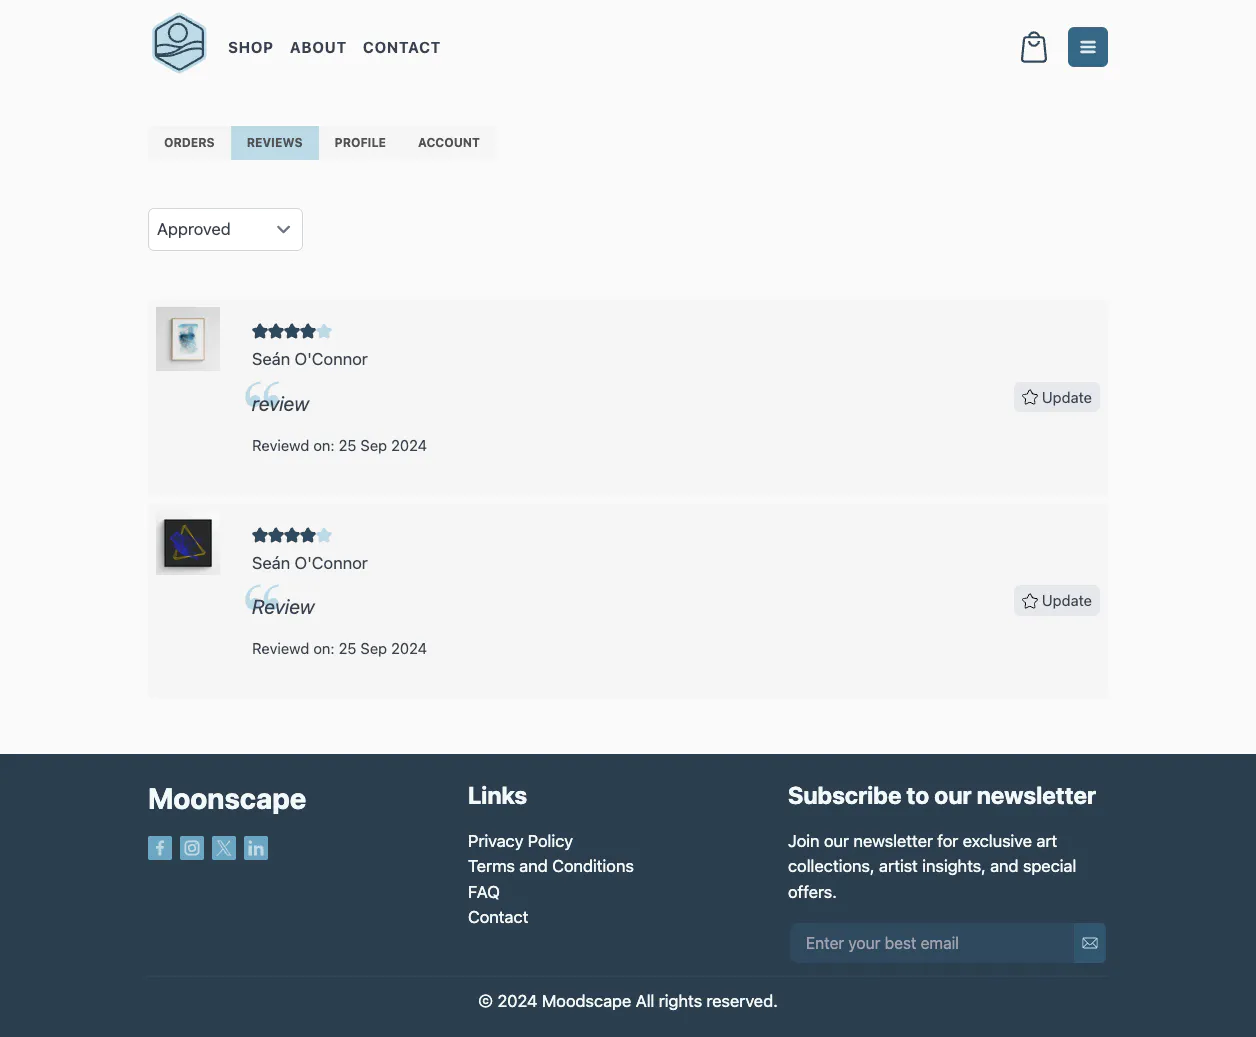
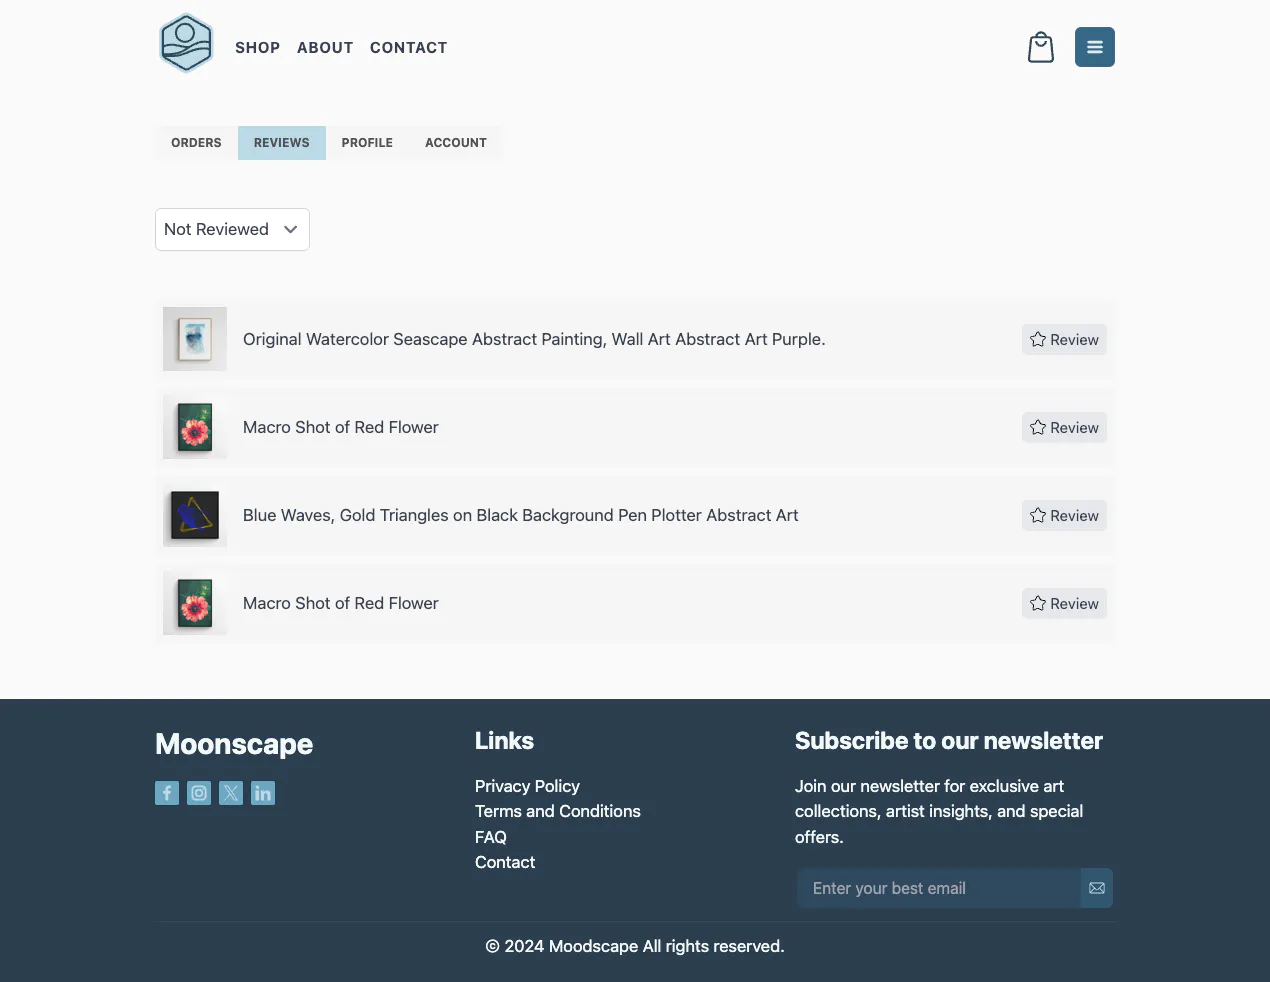
docs: document admin front end pages

diff --git a/README.md b/README.md
@@ -605,9 +605,113 @@ The account page provides a straightforward interface where users can update the
 
 ### Admin Pages
 
-#### Profile Management for Talent and Employers
+<details><summary>Admin Orders</summary>
 
-#### Account Management
+The admin orders page provides an overview of all transactions. It displays a table listing each order by number, the date it was placed, the customer's email, the current status of the order, and the total amount.
+
+![Admin Orders Page](./docs/features-page-admin-orders.webp)
+
+</details>
+
+<details><summary>Admin Order Single Page</summary>
+
+The single order page includes sections for order details, customer information, and shipment address. Admin have the ability to add, remove, or adjust the quantity of items within an order directly from this page. Additionally, admin can update the order status to canceled, completed, or processing.
+
+![Admin Order Single Page](./docs/features-page-admin-order.webp)
+
+</details>
+
+<details><summary>Admin Customers Page</summary>
+
+The customers page displays a list of all shop customers, including their names, email and created date.
+
+![Admin Customers Page](./docs/features-page-admin-customers.webp)
+
+</details>
+
+<details><summary>Admin Customer Single Page</summary>
+
+The single customer page provides options to update customer details or delete the customer profile. Deleting a customer will not remove their associated orders.
+
+![Admin Customer Single Page](./docs/features-page-admin-customer.webp)
+
+</details>
+
+<details><summary>Admin Products Page</summary>
+
+The Products page displays a list of all shop products, each accompanied by an image, price, category, and creation date. Admins can add new products using the 'Add Product' button.
+
+![Admin Products Page](./docs/features-page-admin-products.webp)
+
+</details>
+
+<details><summary>Admin Product Page</summary>
+
+The product page allows admins to update details or delete the product.
+
+![Admin Product Page](./docs/features-page-admin-product-update.webp)
+
+Confirmation message displayed when trying to delete a product.
+
+![Admin Product Page](./docs/features-page-admin-product-delete.webp)
+
+</details>
+
+<details><summary>Admin Add Product Page</summary>
+
+The Add Product page features a form where admins can input essential details to list a new product. Mandatory fields include the product name, SKU, price, and category. The slug is generated automatically from the product name if not provided manually. Description and image are optional but can be added to enhance the product listing.
+
+![Admin Add Product Page](./docs/features-page-admin-product-add.webp)
+
+</details>
+
+<details><summary>Admin Categories Page</summary>
+
+The categories page displays all available categories, with an option for the admin to add new category.
+
+![Admin Categories Page](./docs/features-page-admin-categories.webp)
+
+</details>
+
+<details><summary>Admin Add Category Page</summary>
+
+The category add page features a straightforward form for adding new categories.
+
+![Admin Add Category Page](./docs/features-page-admin-category-add.webp)
+
+</details>
+
+<details><summary>Admin Category Page</summary>
+
+On the category page, an admin can update or delete categories. However, categories assigned to products or the default category labeled "Uncategorized" cannot be deleted. Empty categories are the only ones eligible for deletion.
+
+![Admin Category Page](./docs/features-page-admin-category-update.webp)
+
+Confirmation message displayed when trying to delete a category.
+
+![Admin Category Page](./docs/features-page-admin-category-delete.webp)
+
+Error message displayed when trying to delete default category.
+
+![Admin Category Page](./docs/features-page-admin-category-delete-error-default.webp)
+
+Error message displayed when trying to delete a category that still has products.
+
+![Admin Category Page](./docs/features-page-admin-category-delete-error-not-empty.webp)
+
+</details>
+
+<details><summary>Admin Reviews Page</summary>
+
+The review management page enables the admin to filter and display reviews based on their status: pending, approved, rejected, or deleted. The admin can modify a review's status directly from this page.
+
+![Admin Reviews Page](./docs/features-page-admin-reviews.webp)
+
+Update review page.
+
+![Admin Review Page](./docs/features-page-admin-review-update.webp)
+
+</details>
 
 ### Django Administration
 
